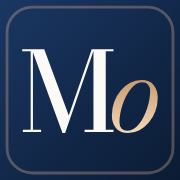
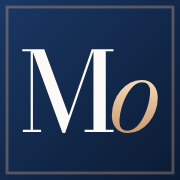
Use the Mo mark across header, footer, admin, sign-in and emails; add brand mark files
Claude-Session: https://claude.ai/code/session_01L9ZztPKPWtbce86Yka41fn

diff --git a/resources/css/admin.css b/resources/css/admin.css
@@ -5,7 +5,7 @@
 .admin-shell { display: grid; grid-template-columns: 260px minmax(0, 1fr); min-height: 100vh; }
 .admin-side { position: sticky; top: 0; height: 100vh; display: flex; flex-direction: column; gap: 24px; padding: 26px 18px; background: var(--ink); color: #D5DBE1; overflow-y: auto; }
 .admin-brand { display: flex; align-items: center; gap: 12px; padding: 0 10px; text-decoration: none; color: #F4F1EC; font-family: var(--font-display); font-size: 22px; letter-spacing: -.03em; }
-.admin-brand .brand-mark { font-size: 26px; padding-right: 12px; border-right: 1px solid #FFFFFF33; }
+.admin-brand .mo-mark { width: 36px; height: 36px; border-radius: 9px; box-shadow: inset 0 0 0 1px #FFFFFF22; }
 .admin-nav { display: grid; gap: 2px; }
 .admin-nav-label { font-size: 10.5px; letter-spacing: .18em; text-transform: uppercase; color: #7D8B99; padding: 18px 12px 8px; }
 .admin-nav a, .admin-side-foot a, .admin-side-foot button { display: flex; align-items: center; gap: 12px; padding: 10px 12px; border-radius: 12px; text-decoration: none; color: #C9D0D7; font-size: 14px; width: 100%; text-align: left; }
@@ -129,7 +129,7 @@
 .admin-login { background: var(--canvas); color: var(--ink); }
 .login-shell { display: grid; grid-template-columns: 1.1fr .9fr; min-height: 100vh; }
 .login-art { position: relative; display: flex; flex-direction: column; justify-content: space-between; padding: 48px; color: #F4F1EC; background: radial-gradient(60% 50% at 80% 20%, #D9AD9355, transparent 70%), linear-gradient(180deg, #102440B3, #0B1A30F0), var(--bg-terraces) center / cover; }
-.login-art .brand-mark { font-family: var(--font-display); font-size: 34px; }
+.login-art .mo-mark { width: auto; height: 56px; color: #F4F1EC; }
 .login-art .display { font-size: clamp(36px, 4vw, 60px); max-width: 11em; }
 .login-art .display em { color: #E9C7B0; }
 .login-panel { display: grid; place-items: center; padding: 40px 24px; }

diff --git a/resources/css/app.css b/resources/css/app.css
@@ -41,8 +41,10 @@
 @layer components {
 .editorial-shell { min-height: 100svh; display: flex; flex-direction: column; background: var(--bg-editorial) center / cover no-repeat; }
 .editorial-header { flex: 0 0 90px; width: 100%; display: flex; align-items: center; gap: 44px; padding: 0 4.4%; position: relative; z-index: 5; }
-.editorial-brand { display: inline-flex; align-items: center; gap: 26px; text-decoration: none; font-family: var(--font-display); font-weight: 400; white-space: nowrap; }
-.brand-mark { font-size: 32px; letter-spacing: -.09em; border-right: 1px solid #99A4AF; padding-right: 26px; line-height: 1.3; }
+.editorial-brand { display: inline-flex; align-items: center; gap: 16px; text-decoration: none; font-family: var(--font-display); font-weight: 400; white-space: nowrap; }
+.mo-mark { display: block; flex-shrink: 0; }
+.editorial-brand .mo-mark { width: 46px; height: 46px; border-radius: 11px; box-shadow: 0 8px 18px -10px #10244099; transition: transform .5s var(--ease-spring, ease); }
+.editorial-brand:hover .mo-mark { transform: rotate(-6deg) scale(1.05); }
 .brand-name { font-size: 26px; letter-spacing: -.05em; }
 .editorial-nav { display: flex; gap: clamp(24px, 3.1vw, 50px); align-items: center; margin-left: auto; font-size: 16px; }
 .editorial-nav button { padding: 12px 0; position: relative; }
@@ -136,7 +138,7 @@ dialog::backdrop { background: #10244075; backdrop-filter: blur(5px); }
 .editorial-shell { background-position: 60% bottom; }
 .editorial-header { flex-basis: 68px; padding: 0 6%; }
 .editorial-brand { gap: 14px; }
-.brand-mark { font-size: 28px; padding-right: 14px; }
+.editorial-brand .mo-mark { width: 38px; height: 38px; border-radius: 9px; }
 .brand-name { font-size: 18px; }
 .hero-copy { width: 100%; padding: 24px 6% 0; }
 .hero-copy h1 { font-size: clamp(65px, 17vw, 100px); }

diff --git a/resources/css/pages.css b/resources/css/pages.css
@@ -152,6 +152,9 @@ a.tag:hover, .tag.is-active { background: var(--ink); color: #FFFFFF; border-col
 /* Site footer */
 .site-footer { background: var(--ink); color: #E7E9EC; padding: clamp(60px, 7vw, 100px) var(--gutter) 28px; margin-top: clamp(40px, 5vw, 80px); }
 .site-footer-top { display: grid; grid-template-columns: 1.5fr 1fr 1fr 1.2fr; gap: 40px; max-width: 1440px; margin: 0 auto; padding-bottom: 50px; border-bottom: 1px solid #FFFFFF1F; }
+.site-footer-mark { display: inline-block; margin-bottom: 26px; color: #FCFAF7; }
+.site-footer-mark .mo-mark { height: 58px; width: auto; transition: transform .6s var(--ease-spring, ease); }
+.site-footer-mark:hover .mo-mark { transform: translateY(-3px) rotate(-4deg); }
 .site-footer-name { font-family: var(--font-display); font-size: clamp(36px, 3.6vw, 56px); letter-spacing: -.06em; line-height: 1; }
 .site-footer-name em { color: #AEB8C2; }
 .site-footer-line { color: #AEB8C2; margin-top: 16px; font-family: var(--font-display); font-style: italic; font-size: 19px; }

diff --git a/resources/views/components/brand-mark.blade.php b/resources/views/components/brand-mark.blade.php
@@ -1,0 +1,7 @@
+@props(['variant' => 'tile', 'title' => null])
+@php($id = 'mo'.\Illuminate\Support\Str::random(6))
+@if ($variant === 'tile')
+<svg {{ $attributes->merge(['class' => 'mo-mark is-tile']) }} xmlns="http://www.w3.org/2000/svg" viewBox="0 0 64 64" @if ($title) role="img" aria-label="{{ $title }}" @else aria-hidden="true" focusable="false" @endif><defs><linearGradient id="{{ $id }}-bg" x1="0" y1="0" x2="1" y2="1"><stop offset="0" stop-color="#1A3763"/><stop offset="1" stop-color="#0B1B33"/></linearGradient> <linearGradient id="{{ $id }}-gold" x1="0" y1="0" x2="0" y2="1"><stop offset="0" stop-color="#F3D9B8"/><stop offset="1" stop-color="#C99A6E"/></linearGradient></defs><rect width="64" height="64" rx="14" fill="url(#{{ $id }}-bg)"/><rect x="2.5" y="2.5" width="59" height="59" rx="11.5" fill="none" stroke="#D9AD93" stroke-opacity=".35"/><path fill="#FCFAF7" d="M22.22 47.29 11.32 17.5H15.73L24.45 41.06L32.61 17.5H33.45L23.16 47.29ZM11.71 17.5V46.13H14.61V46.9H8.13V46.13H10.91V18.26H7.91V17.5ZM40.35 17.5V18.26H37.61V46.13H40.35V46.9H30.08V46.13H33.23V17.5Z"/><path fill="url(#{{ $id }}-gold)" d="M45.58 47.29Q42.62 47.29 41.19 45.48Q39.76 43.68 39.76 41.04Q39.76 38.47 40.61 36.19Q41.47 33.92 42.94 32.19Q44.41 30.45 46.3 29.46Q48.19 28.47 50.27 28.47Q53.25 28.47 54.67 30.29Q56.09 32.1 56.09 34.74Q56.09 37.31 55.24 39.59Q54.38 41.86 52.91 43.59Q51.44 45.33 49.55 46.31Q47.66 47.29 45.58 47.29ZM45.39 46.52Q46.46 46.52 47.46 45.9Q48.46 45.27 49.36 44.17Q50.25 43.07 50.98 41.65Q51.72 40.23 52.26 38.64Q52.8 37.06 53.09 35.45Q53.38 33.84 53.38 32.39Q53.38 30.94 52.68 30.1Q51.97 29.26 50.46 29.26Q49.4 29.26 48.4 29.88Q47.39 30.51 46.49 31.61Q45.6 32.71 44.87 34.13Q44.13 35.55 43.59 37.14Q43.05 38.72 42.76 40.32Q42.47 41.92 42.47 43.39Q42.47 44.82 43.18 45.67Q43.9 46.52 45.39 46.52Z"/></svg>
+@else
+<svg {{ $attributes->merge(['class' => 'mo-mark is-plain']) }} xmlns="http://www.w3.org/2000/svg" viewBox="7.41 17.00 49.18 30.79" @if ($title) role="img" aria-label="{{ $title }}" @else aria-hidden="true" focusable="false" @endif><defs><linearGradient id="{{ $id }}-gold" x1="0" y1="0" x2="0" y2="1"><stop offset="0" stop-color="#F3D9B8"/><stop offset="1" stop-color="#C99A6E"/></linearGradient></defs><path fill="currentColor" d="M22.22 47.29 11.32 17.5H15.73L24.45 41.06L32.61 17.5H33.45L23.16 47.29ZM11.71 17.5V46.13H14.61V46.9H8.13V46.13H10.91V18.26H7.91V17.5ZM40.35 17.5V18.26H37.61V46.13H40.35V46.9H30.08V46.13H33.23V17.5Z"/><path fill="url(#{{ $id }}-gold)" d="M45.58 47.29Q42.62 47.29 41.19 45.48Q39.76 43.68 39.76 41.04Q39.76 38.47 40.61 36.19Q41.47 33.92 42.94 32.19Q44.41 30.45 46.3 29.46Q48.19 28.47 50.27 28.47Q53.25 28.47 54.67 30.29Q56.09 32.1 56.09 34.74Q56.09 37.31 55.24 39.59Q54.38 41.86 52.91 43.59Q51.44 45.33 49.55 46.31Q47.66 47.29 45.58 47.29ZM45.39 46.52Q46.46 46.52 47.46 45.9Q48.46 45.27 49.36 44.17Q50.25 43.07 50.98 41.65Q51.72 40.23 52.26 38.64Q52.8 37.06 53.09 35.45Q53.38 33.84 53.38 32.39Q53.38 30.94 52.68 30.1Q51.97 29.26 50.46 29.26Q49.4 29.26 48.4 29.88Q47.39 30.51 46.49 31.61Q45.6 32.71 44.87 34.13Q44.13 35.55 43.59 37.14Q43.05 38.72 42.76 40.32Q42.47 41.92 42.47 43.39Q42.47 44.82 43.18 45.67Q43.9 46.52 45.39 46.52Z"/></svg>
+@endif

diff --git a/resources/views/mail/layout.blade.php b/resources/views/mail/layout.blade.php
@@ -5,7 +5,7 @@
 <table role="presentation" width="100%" cellpadding="0" cellspacing="0" style="padding:32px 12px;">
     <tr><td align="center">
         <table role="presentation" width="100%" cellpadding="0" cellspacing="0" style="max-width:560px;background:#FFFFFF;border-radius:18px;overflow:hidden;">
-            <tr><td style="background:#102440;color:#F4F1EC;padding:24px 32px;font-family:Georgia,serif;font-size:22px;">{{ content('profile.given_name') }} {{ content('profile.surname') }}</td></tr>
+            <tr><td style="background:#102440;color:#F4F1EC;padding:22px 32px;font-family:Georgia,serif;font-size:22px;"><img src="{{ asset('images/brand/mo-mark-tile-96.png') }}" width="40" height="40" alt="" style="display:inline-block;vertical-align:middle;border:0;border-radius:9px;margin-right:14px;">{{ content('profile.given_name') }} {{ content('profile.surname') }}</td></tr>
             <tr><td style="padding:32px;font-size:15px;line-height:1.6;">@yield('body')</td></tr>
             <tr><td style="padding:20px 32px;background:#FCFAF7;color:#526170;font-size:12px;">{{ content('profile.tagline') }}</td></tr>
         </table>

diff --git a/resources/views/components/site/header.blade.php b/resources/views/components/site/header.blade.php
@@ -1,7 +1,7 @@
 @php($pages = site_pages())
 <header class="page-header">
     <div class="editorial-header">
-        <a class="editorial-brand" href="{{ route('home') }}" aria-label="{{ content('seo.site_name') }} home"><span class="brand-mark">{{ mb_substr(content('profile.given_name'), 0, 1) }}{{ mb_substr(content('profile.surname'), 0, 1) }}</span><span class="brand-name">{{ content('profile.given_name') }} {{ content('profile.surname') }}</span></a>
+        <a class="editorial-brand" href="{{ route('home') }}" aria-label="{{ content('seo.site_name') }} home"><x-brand-mark class="brand-mark" /><span class="brand-name">{{ content('profile.given_name') }} {{ content('profile.surname') }}</span></a>
         <nav class="editorial-nav" aria-label="Main navigation">
             @foreach ($pages as $page)
                 @if ($page['header'])<a href="{{ $page['url'] }}" @if ($page['active']) aria-current="page" @endif>{{ $page['label'] }}</a>@endif

diff --git a/resources/views/welcome.blade.php b/resources/views/welcome.blade.php
@@ -9,7 +9,7 @@
 <a class="skip-link" href="#main">Skip to content</a>
 <div class="editorial-shell">
 <header class="editorial-header">
-    <a class="editorial-brand" href="{{ route('home') }}" aria-label="{{ content('seo.site_name') }} home"><span class="brand-mark">{{ mb_substr(content('profile.given_name'), 0, 1) }}{{ mb_substr(content('profile.surname'), 0, 1) }}</span><span class="brand-name">{{ content('profile.given_name') }} {{ content('profile.surname') }}</span></a>
+    <a class="editorial-brand" href="{{ route('home') }}" aria-label="{{ content('seo.site_name') }} home"><x-brand-mark class="brand-mark" /><span class="brand-name">{{ content('profile.given_name') }} {{ content('profile.surname') }}</span></a>
     <nav class="editorial-nav" aria-label="Main navigation">
         @foreach ($pages as $page)
             @if ($page['header'])<a href="{{ $page['url'] }}">{{ $page['label'] }}</a>@endif

diff --git a/resources/views/components/admin-layout.blade.php b/resources/views/components/admin-layout.blade.php
@@ -20,7 +20,7 @@
 <body class="admin-body">
 <div class="admin-shell">
     <aside class="admin-side" id="admin-side">
-        <a class="admin-brand" href="{{ route('admin.dashboard') }}"><span class="brand-mark">MO</span><span>Studio</span></a>
+        <a class="admin-brand" href="{{ route('admin.dashboard') }}"><x-brand-mark class="brand-mark" /><span>Studio</span></a>
         <nav class="admin-nav" aria-label="Admin">
             <a class="{{ $link('admin.dashboard', 'admin.dashboard') }}" href="{{ route('admin.dashboard') }}"><x-line-icon name="home" /> Overview</a>
             @can('manage-inbox')

diff --git a/resources/views/components/site/footer.blade.php b/resources/views/components/site/footer.blade.php
@@ -7,6 +7,7 @@
 <footer class="site-footer">
     <div class="site-footer-top">
         <div class="site-footer-brand">
+            <a class="site-footer-mark" href="{{ route('home') }}" aria-label="{{ content('seo.site_name') }} home"><x-brand-mark variant="plain" /></a>
             <p class="site-footer-name">{{ content('profile.given_name') }} <em>{{ content('profile.surname') }}</em><span class="name-dot">.</span></p>
             <p class="site-footer-line">{{ content('profile.tagline') }}</p>
             @if ($linkedin || $instagram)

diff --git a/resources/views/admin/login.blade.php b/resources/views/admin/login.blade.php
@@ -13,7 +13,7 @@
 <body class="admin-login">
 <main class="login-shell">
     <section class="login-art" aria-hidden="true">
-        <span class="brand-mark">MO</span>
+        <x-brand-mark variant="plain" class="brand-mark" />
         <p class="display">Clarity for people. <em>Continuity for institutions.</em></p>
     </section>
     <section class="login-panel">
